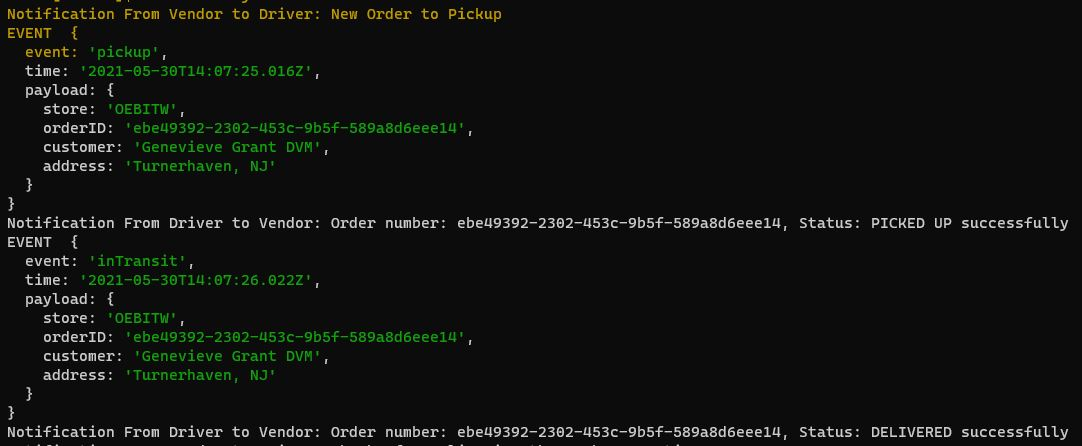
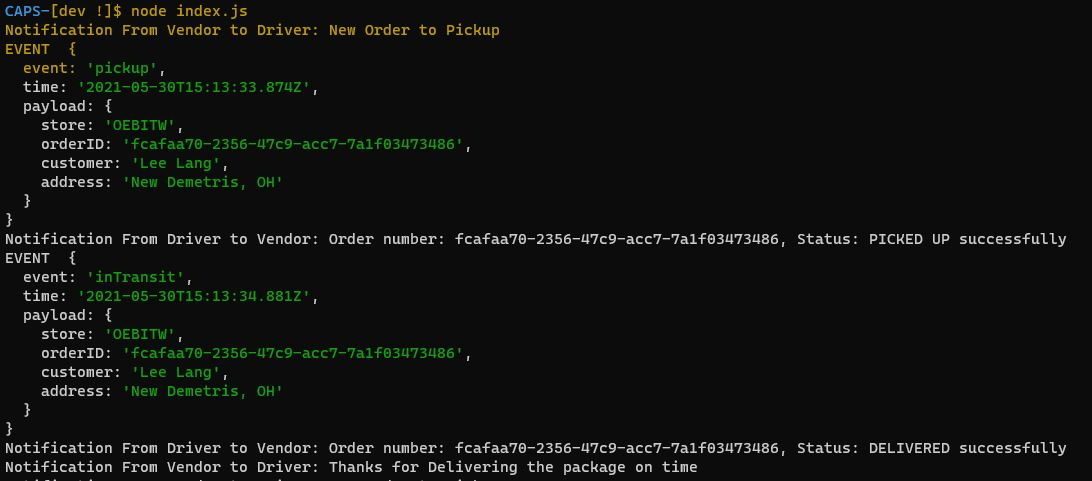
updates

Changed region(s): [[0.0, 0.4081, 1.0, 1.0], [0.0, 0.0, 0.4575, 0.4081]]

diff --git a/__tests__/caps.test.js b/__tests__/caps.test.js
@@ -11,7 +11,8 @@ const faker = require('faker');
 /////////////////
 
 
-const vendor = require('../src/vendor.js');
+const newOrder = require('../src/vendor.js').newOrder;
+const thanks = require('../src/vendor.js').gratitude;
 const driver = require('../src/driver.js');
 
 /////////////////////
@@ -29,7 +30,7 @@ describe('Test The App', () => {
     customer: faker.name.findName(),
     address: `${faker.address.city()}, ${faker.address.stateAbbr()}`,
   };
-  
+
   let payload = {
     event: 'pickup',
     time: new Date().toISOString(),
@@ -47,9 +48,10 @@ describe('Test The App', () => {
   });
   
   it('Test initiating new order', () => {
-    vendor.newOrder();
+    newOrder();
     expect(consoleSpy).toHaveBeenCalled();
   });
+
   it('Test Driver pickup order after 1 second', async () => {
     driver.pickUp(payload);
     setTimeout(() => {
@@ -66,16 +68,8 @@ describe('Test The App', () => {
     }, 3000);
   });
 
-  it('Test Driver Deliver the order', async () => {
-    driver.delivered(payload);
-    setTimeout(() => {
-      expect(consoleSpy).toHaveBeenCalled();
-      expect(consoleSpy).toHaveBeenLastCalledWith(expect.any(Function), 3000);        
-    }, 3000);
-  });
-
   it('Test Thanking the driver', async () => {
-    vendor.gratitude(payload);
+    thanks(payload);
     setTimeout(() => {
       expect(consoleSpy).toHaveBeenCalled();
       expect(consoleSpy).toHaveBeenLastCalledWith(expect.any(Function), 3000);        

diff --git a/src/caps.js b/src/caps.js
@@ -16,3 +16,10 @@ event.on('pickup', driver.pickUp );
 event.on('inTransit', driver.delivered);
 event.on('delivered', vendor.gratitude);
 
+////////////////////////////////////////////
+////// simulate a new customer order //////
+//////////////////////////////////////////
+
+setInterval(() => {
+  vendor.newOrder();
+}, 5000);

diff --git a/src/vendor.js b/src/vendor.js
@@ -44,14 +44,9 @@ function gratitude(payload) {
 
 
 
-////////////////////////////////////////////
-////// simulate a new customer order //////
-//////////////////////////////////////////
 
 
-setInterval(() => {
-  newOrder();
-}, 5000);
+
     
 
 ///////////////////////////////
